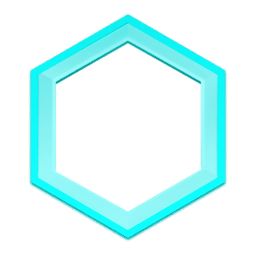
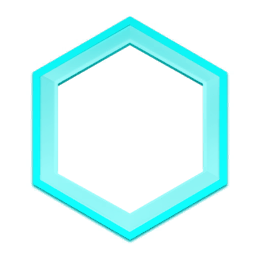
release updated relic framing

diff --git a/docs/app/components/card-template/poc-icon.js b/docs/app/components/card-template/poc-icon.js
@@ -1,1 +1,1 @@
-import e,{div as a}from"/Utils/elements.js";import{useRef as r,useState as s,useEffect as c,useContext as o,createElement as t}from"/cdn/react";import{Globals as p}from"/Views/index.js";import n from"/Utils/load-css.js";import m from"/Components/card-template/svg-wrap.js";import l from"/Components/card-template/image-render.js";import i,{scaleFontSize as g}from"/Components/card-template/effect-text.js";import f from"/Components/card-template/keyword-renderer.js";import y from"/cdn/fitty";import h from"/Utils/datauri.js";import d from"/Utils/use-debounce-effect.js";import k from"/Utils/concurrency-manager.js";import b,{useAssetCacheDebounced as u}from"/Utils/use-asset-cache.js";import{AutoFitClanText as A}from"/Components/card-template/unit.js";import v from"/Utils/use-lang.js";const j=n("/Components/card-template/poc-icon.css");export default e((function(e){const r=o(p),s=b((e=>{h("/Assets/spell/backdrop.png").then(e)}),[]),c=b((a=>{switch(e.pocType){case"item":h("/Assets/poc/poc-item-frame.png").then(a);break;case"relic":h("/Assets/poc/poc-relic-frame.png").then(a);break;default:h("/Assets/poc/poc-frame-overlay.png").then(a)}}),[e.pocType]),t=b((a=>{switch(e.pocType){case"item":case"relic":a("");break;default:h("/Assets/poc/poc-frame-overlay-cover.png").then(a)}}),[e.pocType]),n=b((a=>{switch(e.pocType){case"item":switch(e.rarity){case"common":h("/Assets/poc/poc-item-frame-overlay-common.png").then(a);break;case"rare":h("/Assets/poc/poc-item-frame-overlay-rare.png").then(a);break;case"epic":h("/Assets/poc/poc-item-frame-overlay-epic.png").then(a);break;case"champion":case"legendary":h("/Assets/poc/poc-item-frame-overlay-legendary.png").then(a);break;case"special":h("/Assets/poc/poc-item-frame-overlay-special.png").then(a);break;default:h("/Assets/poc/poc-item-frame-overlay-color.png").then(a)}break;case"relic":switch(e.rarity){case"common":h("/Assets/poc/poc-relic-frame-overlay-common.png").then(a);break;case"rare":h("/Assets/poc/poc-relic-frame-overlay-rare.png").then(a);break;case"epic":h("/Assets/poc/poc-relic-frame-overlay-epic.png").then(a);break;case"champion":case"legendary":h("/Assets/poc/poc-relic-frame-overlay-legendary.png").then(a);break;case"special":h("/Assets/poc/poc-relic-frame-overlay-special.png").then(a);break;default:h("/Assets/poc/poc-relic-frame-overlay-color.png").then(a)}break;default:switch(e.rarity){case"common":h("/Assets/poc/poc-frame-overlay-common.png").then(a);break;case"rare":h("/Assets/poc/poc-frame-overlay-rare.png").then(a);break;case"epic":h("/Assets/poc/poc-frame-overlay-epic.png").then(a);break;case"champion":case"legendary":h("/Assets/poc/poc-frame-overlay-legendary.png").then(a);break;case"special":h("/Assets/poc/poc-frame-overlay-special.png").then(a);break;default:h("/Assets/poc/poc-frame-overlay-color.png").then(a)}}}),[e.pocType,e.rarity]),i=b((a=>{if("relic"===e.pocType)switch(e.rarity){case"common":h("/Assets/poc/poc-common-relic-gem.png").then(a);break;case"rare":h("/Assets/poc/poc-rare-relic-gem.png").then(a);break;case"epic":h("/Assets/poc/poc-epic-relic-gem.png").then(a);break;case"champion":case"legendary":h("/Assets/poc/poc-legendary-relic-gem.png").then(a);break;case"special":h("/Assets/poc/poc-special-gem.png").then(a);break;default:a("")}else switch(e.rarity){case"common":h("/Assets/poc/poc-common-gem.png").then(a);break;case"rare":h("/Assets/poc/poc-rare-gem.png").then(a);break;case"epic":h("/Assets/poc/poc-epic-gem.png").then(a);break;case"champion":case"legendary":h("/Assets/poc/poc-legendary-gem.png").then(a);break;case"special":h("/Assets/poc/poc-special-gem.png").then(a);break;default:a("")}}),[e.rarity,e.pocType]);return m({width:384,height:384,isInclusion:e.isInclusion,loading:e.loading,onTransform:e.onTransform,...e.transform||{x:0,y:0,scale:1}},a({className:`poc-icon-sticker ${e.rarity} ${e.pocType}`},a({className:"art",style:{backgroundImage:!e.art&&r.state.defaultBg&&s?`url(${s})`:"none","--scale":e.transform?e.transform.scale:1,"--left":e.transform?e.transform.x:0,"--top":e.transform?e.transform.y:0}},a({className:"scale-adjuster"},l({url:e.art}))),c?a({className:"frame-overlay",style:{backgroundImage:`url(${c})`}}):void 0,t?a({className:"frame-overlay-cover",style:{backgroundImage:`url(${t})`}}):void 0,n?a({className:"frame-rarity",style:{backgroundImage:`url(${n})`}}):void 0,i?a({className:"frame-rarity-gem",style:{backgroundImage:`url(${i})`}}):void 0))}),j);
+import e,{div as a}from"/Utils/elements.js";import{useRef as s,useState as r,useEffect as c,useContext as o,createElement as t}from"/cdn/react";import{Globals as p}from"/Views/index.js";import n from"/Utils/load-css.js";import m from"/Components/card-template/svg-wrap.js";import l from"/Components/card-template/image-render.js";import i,{scaleFontSize as g}from"/Components/card-template/effect-text.js";import f from"/Components/card-template/keyword-renderer.js";import y from"/cdn/fitty";import h from"/Utils/datauri.js";import d from"/Utils/use-debounce-effect.js";import k from"/Utils/concurrency-manager.js";import b,{useAssetCacheDebounced as A}from"/Utils/use-asset-cache.js";import{AutoFitClanText as u}from"/Components/card-template/unit.js";import v from"/Utils/use-lang.js";const j=n("/Components/card-template/poc-icon.css");export default e((function(e){const s=o(p),r=b((e=>{h("/Assets/spell/backdrop.png").then(e)}),[]),c=b((a=>{switch(e.pocType){case"item":a("");break;case"relic":h("/Assets/poc/poc-item-frame.png").then(a);break;default:h("/Assets/poc/poc-frame-overlay.png").then(a)}}),[e.pocType]),t=b((a=>{switch(e.pocType){case"item":h("/Assets/poc/poc-item-frame.png").then(a);break;case"relic":h("/Assets/poc/poc-relic-frame.png").then(a);break;default:h("/Assets/poc/poc-frame-overlay-cover.png").then(a)}}),[e.pocType]),n=b((a=>{switch(e.pocType){case"item":switch(e.rarity){case"common":h("/Assets/poc/poc-item-frame-overlay-common.png").then(a);break;case"rare":h("/Assets/poc/poc-item-frame-overlay-rare.png").then(a);break;case"epic":h("/Assets/poc/poc-item-frame-overlay-epic.png").then(a);break;case"champion":case"legendary":h("/Assets/poc/poc-item-frame-overlay-legendary.png").then(a);break;case"special":h("/Assets/poc/poc-item-frame-overlay-special.png").then(a);break;default:h("/Assets/poc/poc-item-frame-overlay-color.png").then(a)}break;case"relic":switch(e.rarity){case"common":h("/Assets/poc/poc-relic-frame-overlay-common.png").then(a);break;case"rare":h("/Assets/poc/poc-relic-frame-overlay-rare.png").then(a);break;case"epic":h("/Assets/poc/poc-relic-frame-overlay-epic.png").then(a);break;case"champion":case"legendary":h("/Assets/poc/poc-relic-frame-overlay-legendary.png").then(a);break;case"special":h("/Assets/poc/poc-relic-frame-overlay-special.png").then(a);break;default:h("/Assets/poc/poc-relic-frame-overlay-color.png").then(a)}break;default:switch(e.rarity){case"common":h("/Assets/poc/poc-frame-overlay-common.png").then(a);break;case"rare":h("/Assets/poc/poc-frame-overlay-rare.png").then(a);break;case"epic":h("/Assets/poc/poc-frame-overlay-epic.png").then(a);break;case"champion":case"legendary":h("/Assets/poc/poc-frame-overlay-legendary.png").then(a);break;case"special":h("/Assets/poc/poc-frame-overlay-special.png").then(a);break;default:h("/Assets/poc/poc-frame-overlay-color.png").then(a)}}}),[e.pocType,e.rarity]),i=b((a=>{if("relic"===e.pocType)switch(e.rarity){case"common":h("/Assets/poc/poc-common-relic-gem.png").then(a);break;case"rare":h("/Assets/poc/poc-rare-relic-gem.png").then(a);break;case"epic":h("/Assets/poc/poc-epic-relic-gem.png").then(a);break;case"champion":case"legendary":h("/Assets/poc/poc-legendary-relic-gem.png").then(a);break;case"special":h("/Assets/poc/poc-special-gem.png").then(a);break;default:a("")}else switch(e.rarity){case"common":h("/Assets/poc/poc-common-gem.png").then(a);break;case"rare":h("/Assets/poc/poc-rare-gem.png").then(a);break;case"epic":h("/Assets/poc/poc-epic-gem.png").then(a);break;case"champion":case"legendary":h("/Assets/poc/poc-legendary-gem.png").then(a);break;case"special":h("/Assets/poc/poc-special-gem.png").then(a);break;default:a("")}}),[e.rarity,e.pocType]);return m({width:384,height:384,isInclusion:e.isInclusion,loading:e.loading,onTransform:e.onTransform,...e.transform||{x:0,y:0,scale:1}},a({className:`poc-icon-sticker ${e.rarity} ${e.pocType}`},c?a({className:"frame-overlay",style:{backgroundImage:`url(${c})`}}):void 0,a({className:"art",style:{backgroundImage:!e.art&&s.state.defaultBg&&r?`url(${r})`:"none","--scale":e.transform?e.transform.scale:1,"--left":e.transform?e.transform.x:0,"--top":e.transform?e.transform.y:0}},a({className:"scale-adjuster"},l({url:e.art}))),t?a({className:"frame-overlay-cover",style:{backgroundImage:`url(${t})`}}):void 0,n?a({className:"frame-rarity",style:{backgroundImage:`url(${n})`}}):void 0,i?a({className:"frame-rarity-gem",style:{backgroundImage:`url(${i})`}}):void 0))}),j);
